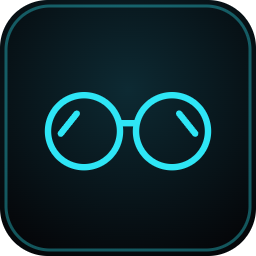
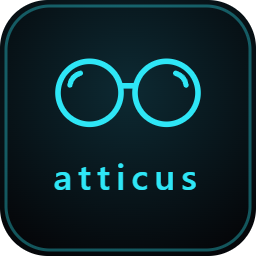
Eyebrow glints, and the name under the glasses
The glints are small curved strokes at the outer top of each lens. Where there
is room the name is set below the glasses (docs/brand/atticus-lockup.svg): the
Marketplace icon and the app's sidebar. Small icons keep the glasses alone.

Changed region(s): [[0.1562, 0.2188, 0.8438, 0.75]]

diff --git a/packages/ui/src/app/nav.tsx b/packages/ui/src/app/nav.tsx
@@ -6,27 +6,27 @@ import { groupLabel, MAIN, MORE, MORE_GROUPS, type ScreenDef } from "./screens.j
 const T = COPY.menu;
 
 /**
- * Atticus's mark: Atticus Finch's glasses (docs/brand/glasses.svg), a glint in each lens leaning
- * toward the other like the legs of an A, in the theme's accent.
+ * Atticus's mark: Atticus Finch's glasses (docs/brand/glasses.svg), a small curved glint at the
+ * outer top of each lens like an eyebrow, in the theme's accent. The name is set below it.
  */
 function Logo() {
   return (
     <svg
       aria-hidden="true"
-      width="26"
-      height="26"
-      viewBox="0 0 24 24"
+      width="48"
+      height="28"
+      viewBox="0 5.5 24 14"
       fill="none"
       stroke="var(--accent)"
       strokeLinecap="round"
       style={{ filter: "drop-shadow(0 0 var(--glow-size) var(--accent))" }}
     >
-      <g strokeWidth="1.25">
+      <g strokeWidth="1.1">
         <circle cx="6.5" cy="12.4" r="4.5" />
         <circle cx="17.5" cy="12.4" r="4.5" />
         <path d="M11 11.4 H13" />
       </g>
-      <path strokeWidth="1.05" d="M3.6 12.7 L5.6 10.2 M20.4 12.7 L18.4 10.2" />
+      <path strokeWidth="0.95" d="M3.7 11.3 Q3.9 10.0 5.2 9.6 M20.3 11.3 Q20.1 10.0 18.8 9.6" />
     </svg>
   );
 }

diff --git a/packages/ui/src/styles/hud.css b/packages/ui/src/styles/hud.css
@@ -357,15 +357,20 @@ a:hover {
   color: var(--text);
   box-shadow: var(--shadow-ask);
 }
+/* The lockup: the glasses with the name set below them. */
 .brand {
   display: flex;
+  flex-direction: column;
   align-items: center;
-  gap: 10px;
+  align-self: flex-start;
+  width: fit-content;
+  gap: 2px;
   padding: 4px 12px 16px;
   font-family: var(--display);
-  font-weight: 700;
-  font-size: 18px;
-  letter-spacing: 0.22em;
+  font-weight: 600;
+  font-size: 15px;
+  letter-spacing: 0.16em;
+  text-indent: 0.16em;
   color: var(--accent);
   text-shadow: 0 0 10px var(--glow);
 }

diff --git a/packages/ui/src/copy.ts b/packages/ui/src/copy.ts
@@ -826,7 +826,7 @@ export const COPY = {
       `${v} edges. Point at a box to light its edges; dashed lines are asynchronous.`,
   },
   menu: {
-    atticus: "ATTICUS",
+    atticus: "atticus",
     askAtticus: "Ask Atticus",
   },
   palette: {

diff --git a/CHANGELOG.md b/CHANGELOG.md
@@ -6,7 +6,7 @@ All notable changes to Atticus. Versions follow [Semantic Versioning](https://se
 
 ### A pair of glasses
 
-- Atticus's mark is Atticus Finch's glasses (`docs/brand/glasses.svg`): two fine round lenses and a straight bridge, with a glint at the outer side of each lens, leaning in, so the two glints are the legs of an A. It is the app's header and favicon, the VS Code activity bar and Marketplace icon, and the IntelliJ tool window and plugin icon.
+- Atticus's mark is Atticus Finch's glasses (`docs/brand/glasses.svg`): two fine round lenses and a straight bridge, with a small curved glint at the outer top of each lens, like an eyebrow. Where there is room the name is set below it (`docs/brand/atticus-lockup.svg`): the Marketplace icon and the app's sidebar. The glasses alone are the favicon, the VS Code activity bar and the IntelliJ icons.
 
 ### Every screen says what is happening
 
